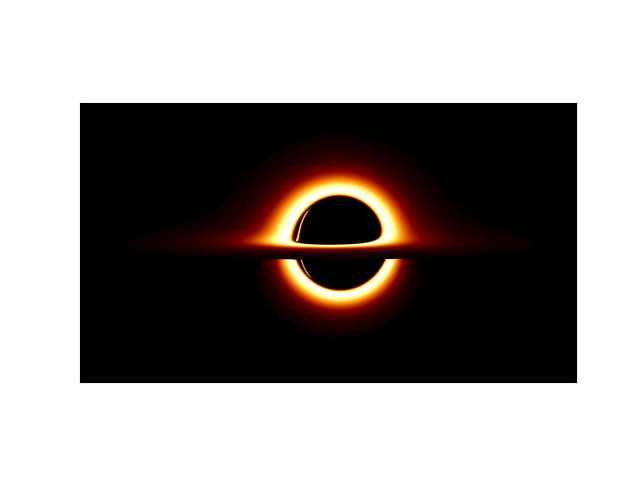
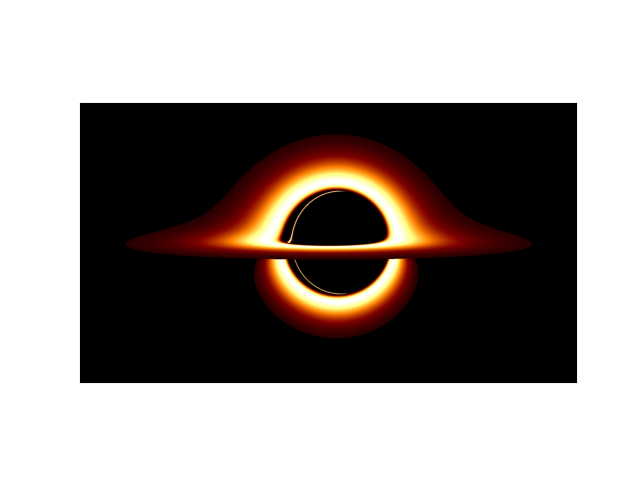
Switch to Schwarzschild BH and update test output images
- Changed from Kerr BH (a=0.9) to Schwarzschild BH (a=0.0)
- Updated output filename to reflect Schwarzschild test case
- Added corresponding test images for Schwarzschild configuration

Changed region(s): [[0.1875, 0.2812, 0.8438, 0.7188]]

diff --git a/ex2.BH_Image no-Doppler.py b/ex2.BH_Image no-Doppler.py
@@ -31,8 +31,9 @@ warnings.filterwarnings("ignore")
 
 
 ##### KERR BH
-a = 0.9 # Angular Monmentum
-blackhole = kerr.BlackHole(a)
+a = 0.0 # Angular Monmentum
+blackhole = schwarzschild.BlackHole() # Schwarzschild BH with a=0.0
+#blackhole = kerr.BlackHole(a)
 
 
 ##### NUMERICAL SCHWARZSCHILD BH
@@ -73,7 +74,7 @@ acc_structure = thin_disk.structure(blackhole)
 ============================ IMAGE FILENAME ===================================
 ===============================================================================
 '''
-filename = 'Kerr_a_0.7_1920x1080_No_Doppler_TEST'
+filename = 'schwarzschild_1920x1080_No_Doppler_TEST'
 savefig = True
 
 
